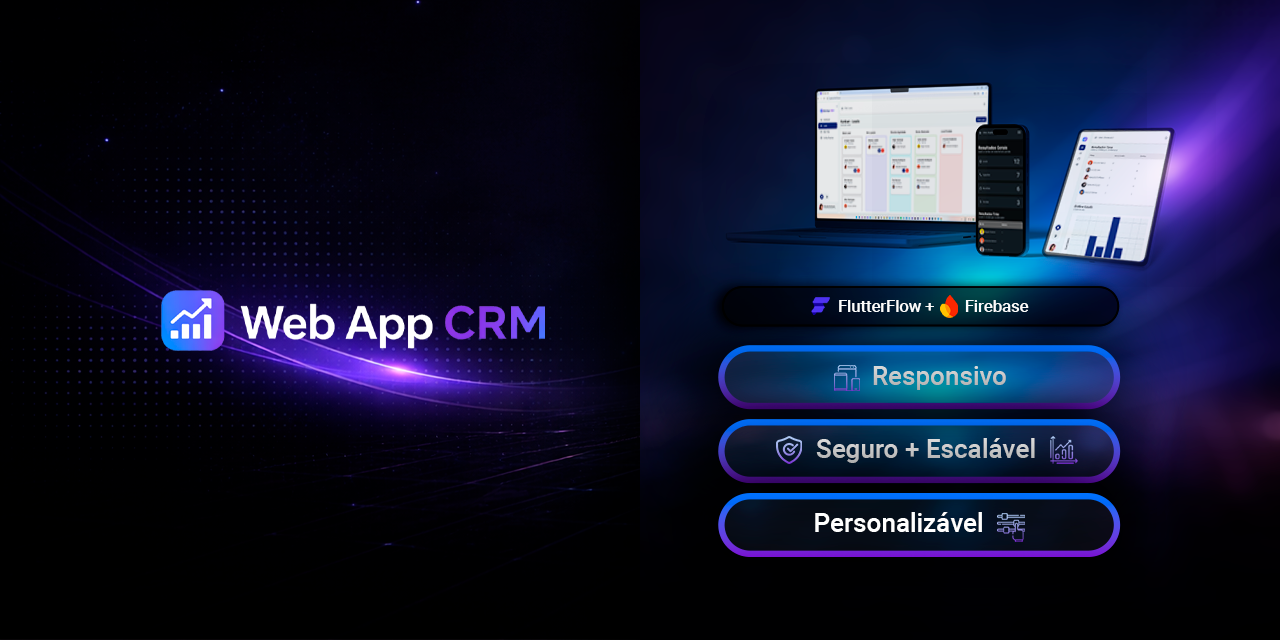
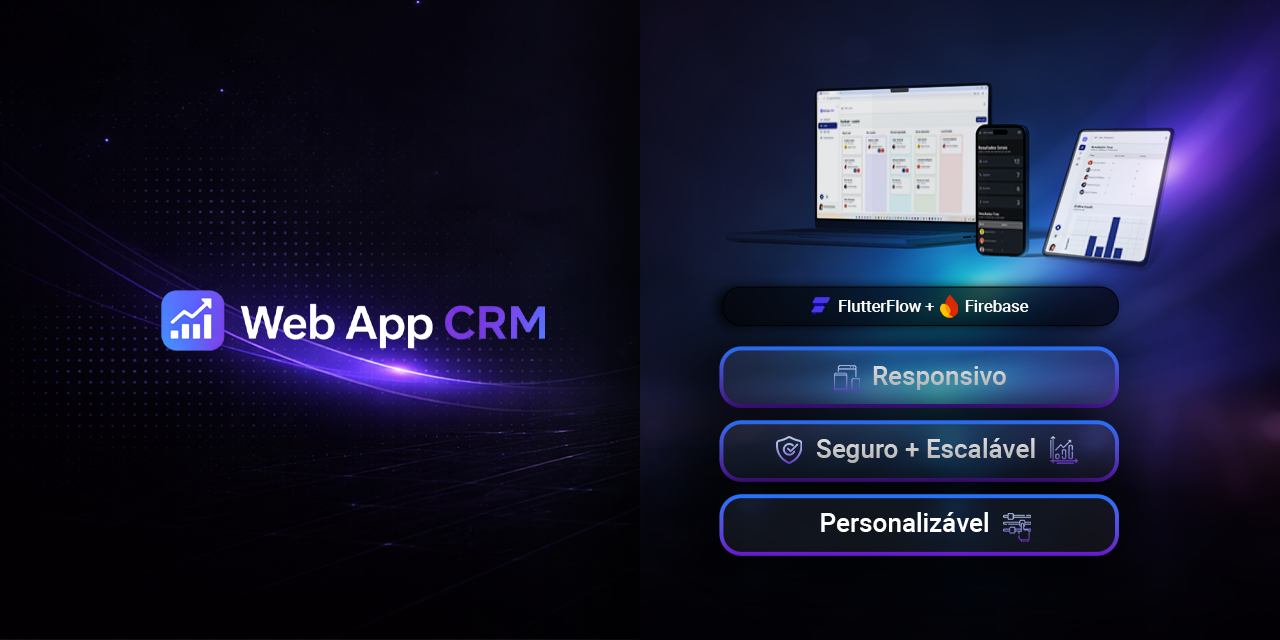
docs(demo): Adiciona demo-sprint-4.gif no README.md

diff --git a/README.md b/README.md
@@ -27,7 +27,7 @@
 ## 🎬 Demonstração
 
 <p align="center">
-  <img src="docs/imgs/demo/webappcrm-demo.gif" width="70%">
+  <img src="docs/imgs/demo/demo-sprint-4.gif" width="70%">
 </p>
 
 ---
